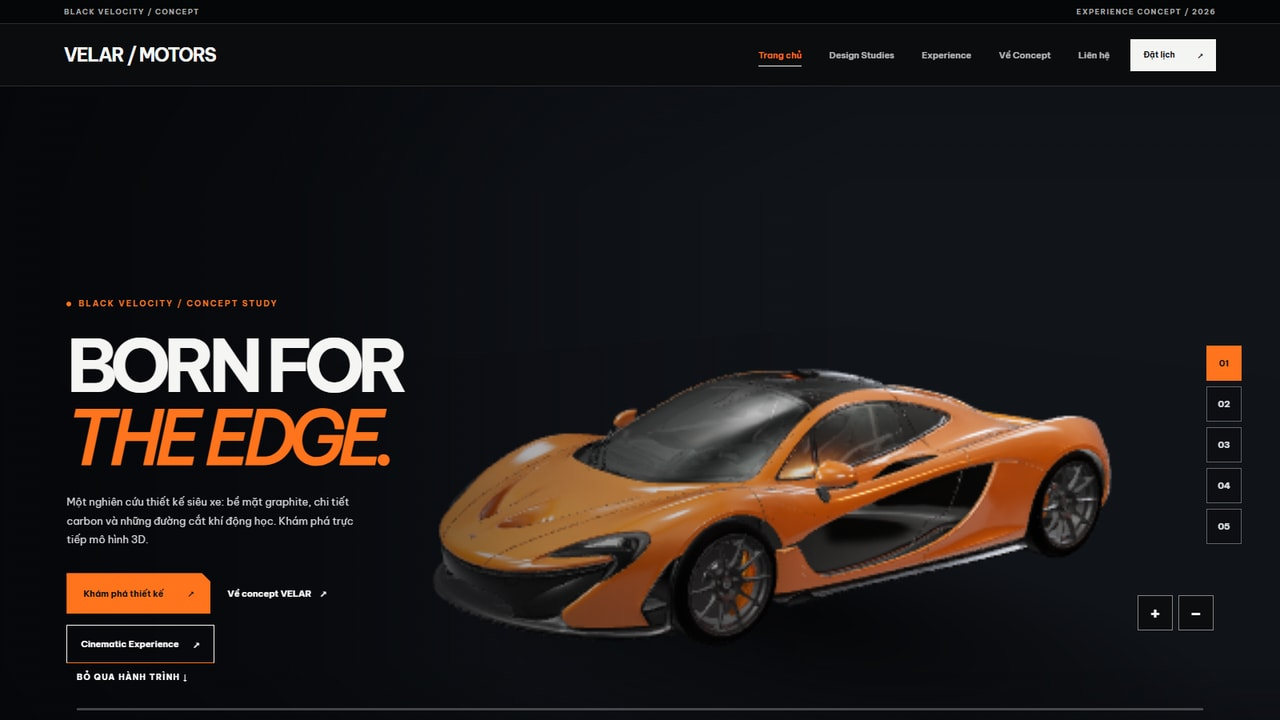
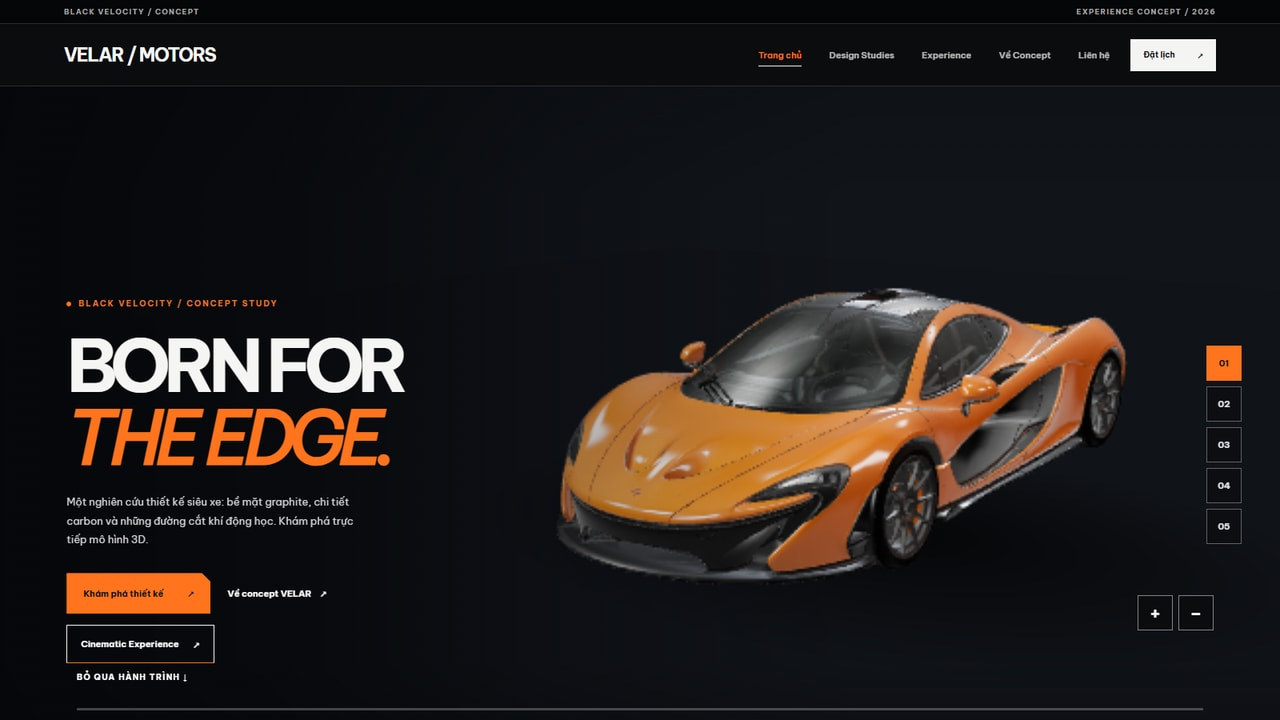
fix: center McLaren orbit and preserve manual rotation

Changed region(s): [[0.3438, 0.3972, 0.9062, 0.8861]]

diff --git a/components/immersive/McLarenShowroomScene.tsx b/components/immersive/McLarenShowroomScene.tsx
@@ -11,6 +11,7 @@ import {McLarenLoadingUI} from "./McLarenLoadingUI";
 const MODEL_PATH="/models/mclaren.glb?v=20261029-p1-vecarz";
 type SceneState="loading"|"ready"|"fallback";
 const clamp=(value:number,min:number,max:number)=>Math.max(min,Math.min(max,value));
+const wrapAngle=(angle:number)=>Math.atan2(Math.sin(angle),Math.cos(angle));
 
 function makeStage(){
  const stage=new THREE.Group();
@@ -136,10 +137,11 @@ export function McLarenShowroomScene({preset,enabled=true,scrollRootId,onRequest
   const scene=new THREE.Scene();
   scene.background=new THREE.Color(0x11151a);
   const camera=new THREE.PerspectiveCamera(34,1,.1,85);
-  // Aim slightly left of the car on wide showroom screens so the model sits
-  // to the right of the editorial headline. Other journeys keep their pose.
-  const heroWide=scrollRootId==="bv-cinematic-track"&&!isMobile&&window.innerWidth>=1100;
-  const target=new THREE.Vector3(heroWide?-1.58:scrollRootId&&!isMobile?-.28:0,.68,0);
+  // Orbit around the actual model center. Use a lens shift for desktop copy
+  // clearance; moving the look-at point instead makes the car orbit off-axis.
+  const isWideHero=()=>scrollRootId==="bv-cinematic-track"&&window.innerWidth>820;
+  const target=new THREE.Vector3(0,isWideHero()?.47:.68,0);
+  let wideDistance=1;
   canvas.dataset.cameraTargetX=target.x.toFixed(2);
   camera.position.set(5.6,2.5,5.8);camera.lookAt(target);
 
@@ -180,7 +182,7 @@ export function McLarenShowroomScene({preset,enabled=true,scrollRootId,onRequest
   let request=0,visible=true,frameTime=0,drawn=false;
   let expensiveFrames=0,preferImmediateCamera=softwareRenderer;
   let queuedContinuation=false;
-  let drag=false,previousX=0,turn=0,dragTurn=0;
+  let drag=false,previousX=0,dragTurn=0;
   let currentMode=modeRef.current,currentProgress=0,goalProgress=0;
   // Desktop renders on every requested RAF during active interaction, not at an
   // artificial 38 FPS ceiling. Mobile retains a 30 FPS cap and pixel budget.
@@ -213,6 +215,12 @@ export function McLarenShowroomScene({preset,enabled=true,scrollRootId,onRequest
    canvas.dataset.renderDpr=effectiveDpr.toFixed(3);
    canvas.dataset.renderPixels=String(Math.round(rect.width*rect.height*effectiveDpr*effectiveDpr));
    canvas.dataset.renderQuality=softwareRenderer?"compatibility":"adaptive-high";
+   const widthProgress=clamp((window.innerWidth-820)/780,0,1);
+   const wide=isWideHero();
+   wideDistance=wide?1.6-.6*widthProgress:1;
+   camera.filmOffset=wide?-3-4*widthProgress:scrollRootId&&!isMobile?-1:0;
+   target.y=wide?.47:.68;
+   canvas.dataset.cameraFilmOffset=camera.filmOffset.toFixed(2);
    camera.aspect=rect.width/rect.height;camera.updateProjectionMatrix();
   };
   function draw(now:number){
@@ -245,16 +253,13 @@ export function McLarenShowroomScene({preset,enabled=true,scrollRootId,onRequest
     ?(drawn?currentProgress+(goalProgress-currentProgress)*scrollFollow:goalProgress)
     :currentProgress+(goalProgress-currentProgress)*lerp;
    if(Math.abs(goalProgress-currentProgress)<.0005)currentProgress=goalProgress;
-   turn+=(dragTurn-turn)*lerp;
-   const angles=[.72,2.0,4.9];
+   const angles=[1.02,2.0,4.9];
    // Five signed-off narrative keyframes, sampled directly from scroll progress.
    // Reversing scroll settles on the same pose once the glide catches up.
-   const journeyAngles=[.72,1.42,2.12,3.82,5.42];
+   const journeyAngles=[1.02,1.42,2.12,3.82,5.42];
    const journeyElevations=[2.35,1.98,2.48,2.18,2.55];
    const journeyDistances=[1,.93,.71,.88,1.04];
-   const journeyX=[0,.55,-.12,-.44,0];
-   const journeyZ=[0,-.2,.04,.18,0];
-   const journeyYaw=[0,-.09,.06,.11,0];
+   // The camera performs the chapter motion. Keep the physical car pivot fixed.
    const position=clamp(currentProgress*4,0,4);
    const lower=Math.min(3,Math.floor(position));
    const fraction=position-lower;
@@ -262,16 +267,11 @@ export function McLarenShowroomScene({preset,enabled=true,scrollRootId,onRequest
    const scrollOrbit=THREE.MathUtils.lerp(journeyAngles[lower],journeyAngles[lower+1],smoothFraction);
    const scrollHeight=THREE.MathUtils.lerp(journeyElevations[lower],journeyElevations[lower+1],smoothFraction);
    const scrollDistance=THREE.MathUtils.lerp(journeyDistances[lower],journeyDistances[lower+1],smoothFraction);
-   if(scrollRootId){
-    // A small, reversible glide accompanies the dolly. No fake wheel spin:
-    // this GLB exposes no separately named wheel pivots.
-    car.position.set(THREE.MathUtils.lerp(journeyX[lower],journeyX[lower+1],smoothFraction),0,
-     THREE.MathUtils.lerp(journeyZ[lower],journeyZ[lower+1],smoothFraction));
-    car.rotation.y=THREE.MathUtils.lerp(journeyYaw[lower],journeyYaw[lower+1],smoothFraction);
-   }
+   // Keep the mesh at the world origin so drag and scroll share one true pivot.
    if(canvas){
     canvas.dataset.scrollProgress=currentProgress.toFixed(4);
     canvas.dataset.modelX=car.position.x.toFixed(4);
+    canvas.dataset.manualOrbit=dragTurn.toFixed(4);
    }
    // Preset changes should travel between camera poses, not snap halfway.
    const modePosition=clamp(currentMode,0,2);
@@ -279,9 +279,9 @@ export function McLarenShowroomScene({preset,enabled=true,scrollRootId,onRequest
    const modeT=modePosition-modeLower;
    const easedMode=modeT*modeT*(3-2*modeT);
    const heroOrbit=angles[modeLower]+(angles[modeLower+1]-angles[modeLower])*easedMode;
-   const orbit=(scrollRootId?scrollOrbit:heroOrbit+currentProgress*.20)+turn;
+   const orbit=(scrollRootId?scrollOrbit:heroOrbit+currentProgress*.20)+dragTurn;
    const baseDistance=Math.max(6.75,6.75*.93/Math.max(.60,camera.aspect))*(isMobile?1.30:1);
-   const dist=baseDistance*(scrollRootId?scrollDistance:1)*(1-clamp(zoomRef.current,-1,2)*(isMobile?.04:.09));
+   const dist=baseDistance*wideDistance*(scrollRootId?scrollDistance:1)*(1-clamp(zoomRef.current,-1,2)*(isMobile?.04:.09));
    const y=scrollRootId?scrollHeight:(isMobile?2.6:2.42);
    const wanted=new THREE.Vector3(Math.cos(orbit)*dist,y,Math.sin(orbit)*dist);
    if(scrollRootId)camera.position.copy(wanted);
@@ -304,7 +304,7 @@ export function McLarenShowroomScene({preset,enabled=true,scrollRootId,onRequest
     }
    }
    if(!drawn){drawn=true;finishLoading();setPercent(100);setStatus("ready");}
-   const movement=Math.abs(currentMode-modeRef.current)+Math.abs(currentProgress-goalProgress)+Math.abs(turn-dragTurn)+camera.position.distanceTo(wanted);
+   const movement=Math.abs(currentMode-modeRef.current)+Math.abs(currentProgress-goalProgress)+camera.position.distanceTo(wanted);
    if(movement>.006){queuedContinuation=true;schedule();}
   }
 
@@ -314,15 +314,15 @@ export function McLarenShowroomScene({preset,enabled=true,scrollRootId,onRequest
   };
   const pointerMove=(event:PointerEvent)=>{
    if(!drag)return;
-   dragTurn+=clamp(event.clientX-previousX,-45,45)*.006;
+   // A direct, wrapped orbit follows the pointer without accumulating turns.
+   dragTurn=wrapAngle(dragTurn+clamp(event.clientX-previousX,-45,45)*.006);
    previousX=event.clientX;schedule();
   };
   const pointerUp=()=>{drag=false;};
   const onScroll=()=>{
    measureProgress();
-   // Return from a manual orbit gradually when scrolling resumes; clearing
-   // both values here caused an immediate visible angle snap.
-   if(scrollRootId)dragTurn=0;
+   // Preserve the visitor’s chosen orbit; scrolling only changes the chapter
+   // camera pose and must never unwind an arbitrary number of manual turns.
    schedule();
   };
   const onVisibility=()=>{if(document.hidden){cancelAnimationFrame(request);request=0;}else schedule();};

diff --git a/tests/e2e/mclaren-responsive-attribution.spec.ts b/tests/e2e/mclaren-responsive-attribution.spec.ts
@@ -37,10 +37,58 @@ for(const {width,height} of [{width:320,height:900},{width:390,height:844}]){
  });
 }
 
-test("wide home camera aims left to place the car clear of editorial copy",async({page})=>{
+test("wide home camera shifts its lens while orbiting around the centered car",async({page})=>{
  await page.setViewportSize({width:1440,height:900});
  await page.goto(home,{waitUntil:"domcontentloaded"});
  const canvas=page.locator(".ix-auto-3d-canvas");
- if(await supportsWebGL2(page))await expect(canvas).toHaveAttribute("data-camera-target-x","-1.58",{timeout:15000});
- else await expect(canvas).toHaveAttribute("data-renderer","fallback",{timeout:15000});
+ if(await supportsWebGL2(page)){
+  await expect(canvas).toHaveAttribute("data-camera-target-x","0.00",{timeout:15000});
+  expect(Number(await canvas.getAttribute("data-camera-film-offset"))).toBeLessThan(-5);
+ }else await expect(canvas).toHaveAttribute("data-renderer","fallback",{timeout:15000});
+});
+
+test("dragging multiple full turns stays centered and scrolling does not unwind the camera",async({page})=>{
+ test.setTimeout(60000);
+ await page.setViewportSize({width:1440,height:900});
+ await page.goto(home,{waitUntil:"domcontentloaded"});
+ const canvas=page.locator("canvas.ix-auto-3d-canvas");
+ if(!(await supportsWebGL2(page)))return;
+ await expect(canvas).toHaveAttribute("data-renderer","ready",{timeout:30000});
+ await page.evaluate(()=>{
+  const element=document.querySelector<HTMLCanvasElement>("canvas.ix-auto-3d-canvas")!;
+  // Synthetic pointer moves exercise the exact gesture handlers without
+  // moving the physical test mouse outside the browser viewport.
+  Object.defineProperty(element,"setPointerCapture",{value:()=>{},configurable:true});
+  const emit=(name:string,x:number)=>element.dispatchEvent(new PointerEvent(name,{
+   bubbles:true,pointerId:1,isPrimary:true,clientX:x,clientY:500
+  }));
+  emit("pointerdown",300);
+  for(let i=1;i<=140;i++)emit("pointermove",300+i*35);
+  emit("pointerup",5200);
+ });
+ await expect.poll(async()=>Number(await canvas.getAttribute("data-manual-orbit"))).toBeLessThan(-1.5);
+ const before=Number(await canvas.getAttribute("data-manual-orbit"));
+ expect(Math.abs(before)).toBeLessThanOrEqual(Math.PI);
+ await page.evaluate(()=>{window.scrollBy(0,120);window.dispatchEvent(new Event("scroll"));});
+ await page.waitForTimeout(400);
+ const after=Number(await canvas.getAttribute("data-manual-orbit"));
+ expect(Math.abs(after-before)).toBeLessThan(.001);
+ await expect(canvas).toHaveAttribute("data-model-x","0.0000");
+ await expect(canvas).toHaveAttribute("data-camera-target-x","0.00");
+});
+
+test("desktop framing scales with width while preserving the orbit center",async({page})=>{
+ await page.setViewportSize({width:1600,height:900});
+ await page.goto(home,{waitUntil:"domcontentloaded"});
+ if(!(await supportsWebGL2(page)))return;
+ const canvas=page.locator("canvas.ix-auto-3d-canvas");
+ await expect(canvas).toHaveAttribute("data-renderer","ready",{timeout:30000});
+ const offset=async()=>Number(await canvas.getAttribute("data-camera-film-offset"));
+ await expect.poll(offset).toBe(-7);
+ await page.setViewportSize({width:1280,height:900});
+ await expect.poll(offset).toBeGreaterThan(-7);
+ await page.setViewportSize({width:1100,height:900});
+ await expect.poll(offset).toBeGreaterThan(-5);
+ await expect(canvas).toHaveAttribute("data-camera-target-x","0.00");
+ await expect(canvas).toHaveAttribute("data-model-x","0.0000");
 });

diff --git a/tests/e2e/mclaren-cinematic-home.spec.ts b/tests/e2e/mclaren-cinematic-home.spec.ts
@@ -14,6 +14,14 @@ test("McLaren homepage is a reversible five-scene scroll film with one canvas",a
  await expect(nav).toHaveCount(5);
  await expect(canvas).toHaveCount(1);
  await expect(track).toHaveAttribute("data-chapter","0");
+ // Wait for the client scroll owner to hydrate before clicking SSR buttons.
+ await expect.poll(()=>track.evaluate(element=>element.style.getPropertyValue("--bv-progress"))).not.toBe("");
+ // This test checks chapter state, not smooth-scroll timing under software WebGL.
+ // A separate test verifies that real navigation requests smooth scrolling.
+ await page.evaluate(()=>{
+  const nativeScrollTo=window.scrollTo.bind(window);
+  window.scrollTo=((options:ScrollToOptions)=>nativeScrollTo({...options,behavior:"instant"})) as typeof window.scrollTo;
+ });
 
  await nav.nth(1).click();
  await expect(track).toHaveAttribute("data-chapter","1");
@@ -58,6 +66,8 @@ test("McLaren chapter buttons request smooth native scrolling and respect reduce
  await page.emulateMedia({reducedMotion:"no-preference"});
  await page.setViewportSize({width:1440,height:900});
  await page.goto("/template-demos/auto-showroom",{waitUntil:"domcontentloaded"});
+ const track=page.locator("#bv-cinematic-track");
+ await expect.poll(()=>track.evaluate(element=>element.style.getPropertyValue("--bv-progress"))).not.toBe("");
  await page.evaluate(()=>{
   const original=window.scrollTo.bind(window);
   window.scrollTo=((options:ScrollToOptions)=>{

diff --git a/components/home/HomeTemplateShowcase.tsx b/components/home/HomeTemplateShowcase.tsx
@@ -30,7 +30,7 @@ export function HomeTemplateShowcase(){
     </div>
     <div className="home-demo-cards" aria-live="polite">{items.map((item,i)=><article className="home-demo-card" key={item.slug}>
       <Link href={item.demoPath} className="home-demo-picture" aria-label={"Xem demo "+item.title}>
-       <Image src={"/template-previews/"+item.slug+".jpg"+(item.slug==="auto-showroom"?"?v=20261029-p1-3d-cover":"")} alt={"Xem trước website "+item.title} fill sizes="(max-width:600px) 100vw, (max-width:1100px) 50vw, 33vw" />
+       <Image src={"/template-previews/"+item.slug+".jpg"+(item.slug==="auto-showroom"?"?v=20261029-p1-centered-orbit":"")} alt={"Xem trước website "+item.title} fill sizes="(max-width:600px) 100vw, (max-width:1100px) 50vw, 33vw" />
        <span className="home-demo-open"><Icon name="arrow-up-right" size={19}/></span>
       </Link>
       <div className="home-demo-meta"><span>{String(i+1).padStart(2,"0")} / {item.industry}</span><span>{item.style}</span></div>

diff --git a/components/templates/TemplatePreview.tsx b/components/templates/TemplatePreview.tsx
@@ -4,7 +4,7 @@ import type {Template} from "@/lib/templates";
 const capturedHomepages=new Set(["digital-creators","creative-studio","architecture-studio","auto-showroom"]);
 export function TemplatePreview({template,device="desktop"}:{template:Template;device?:"desktop"|"mobile"}){
  const extension=capturedHomepages.has(template.slug)?".png":".jpg";
- const screenshot="/template-previews/"+template.slug+extension+(template.slug==="auto-showroom"?"?v=20261029-p1-3d-cover":"");
+ const screenshot="/template-previews/"+template.slug+extension+(template.slug==="auto-showroom"?"?v=20261029-p1-centered-orbit":"");
  return <div className="template-device-frame" data-device={device}>
   <div className="template-thumbnail">
    <div className="template-thumbnail-browser" aria-hidden="true"><span className="template-browser-dots"><i/><i/><i/></span><span>{template.slug}.preview</span><span>↗</span></div>
